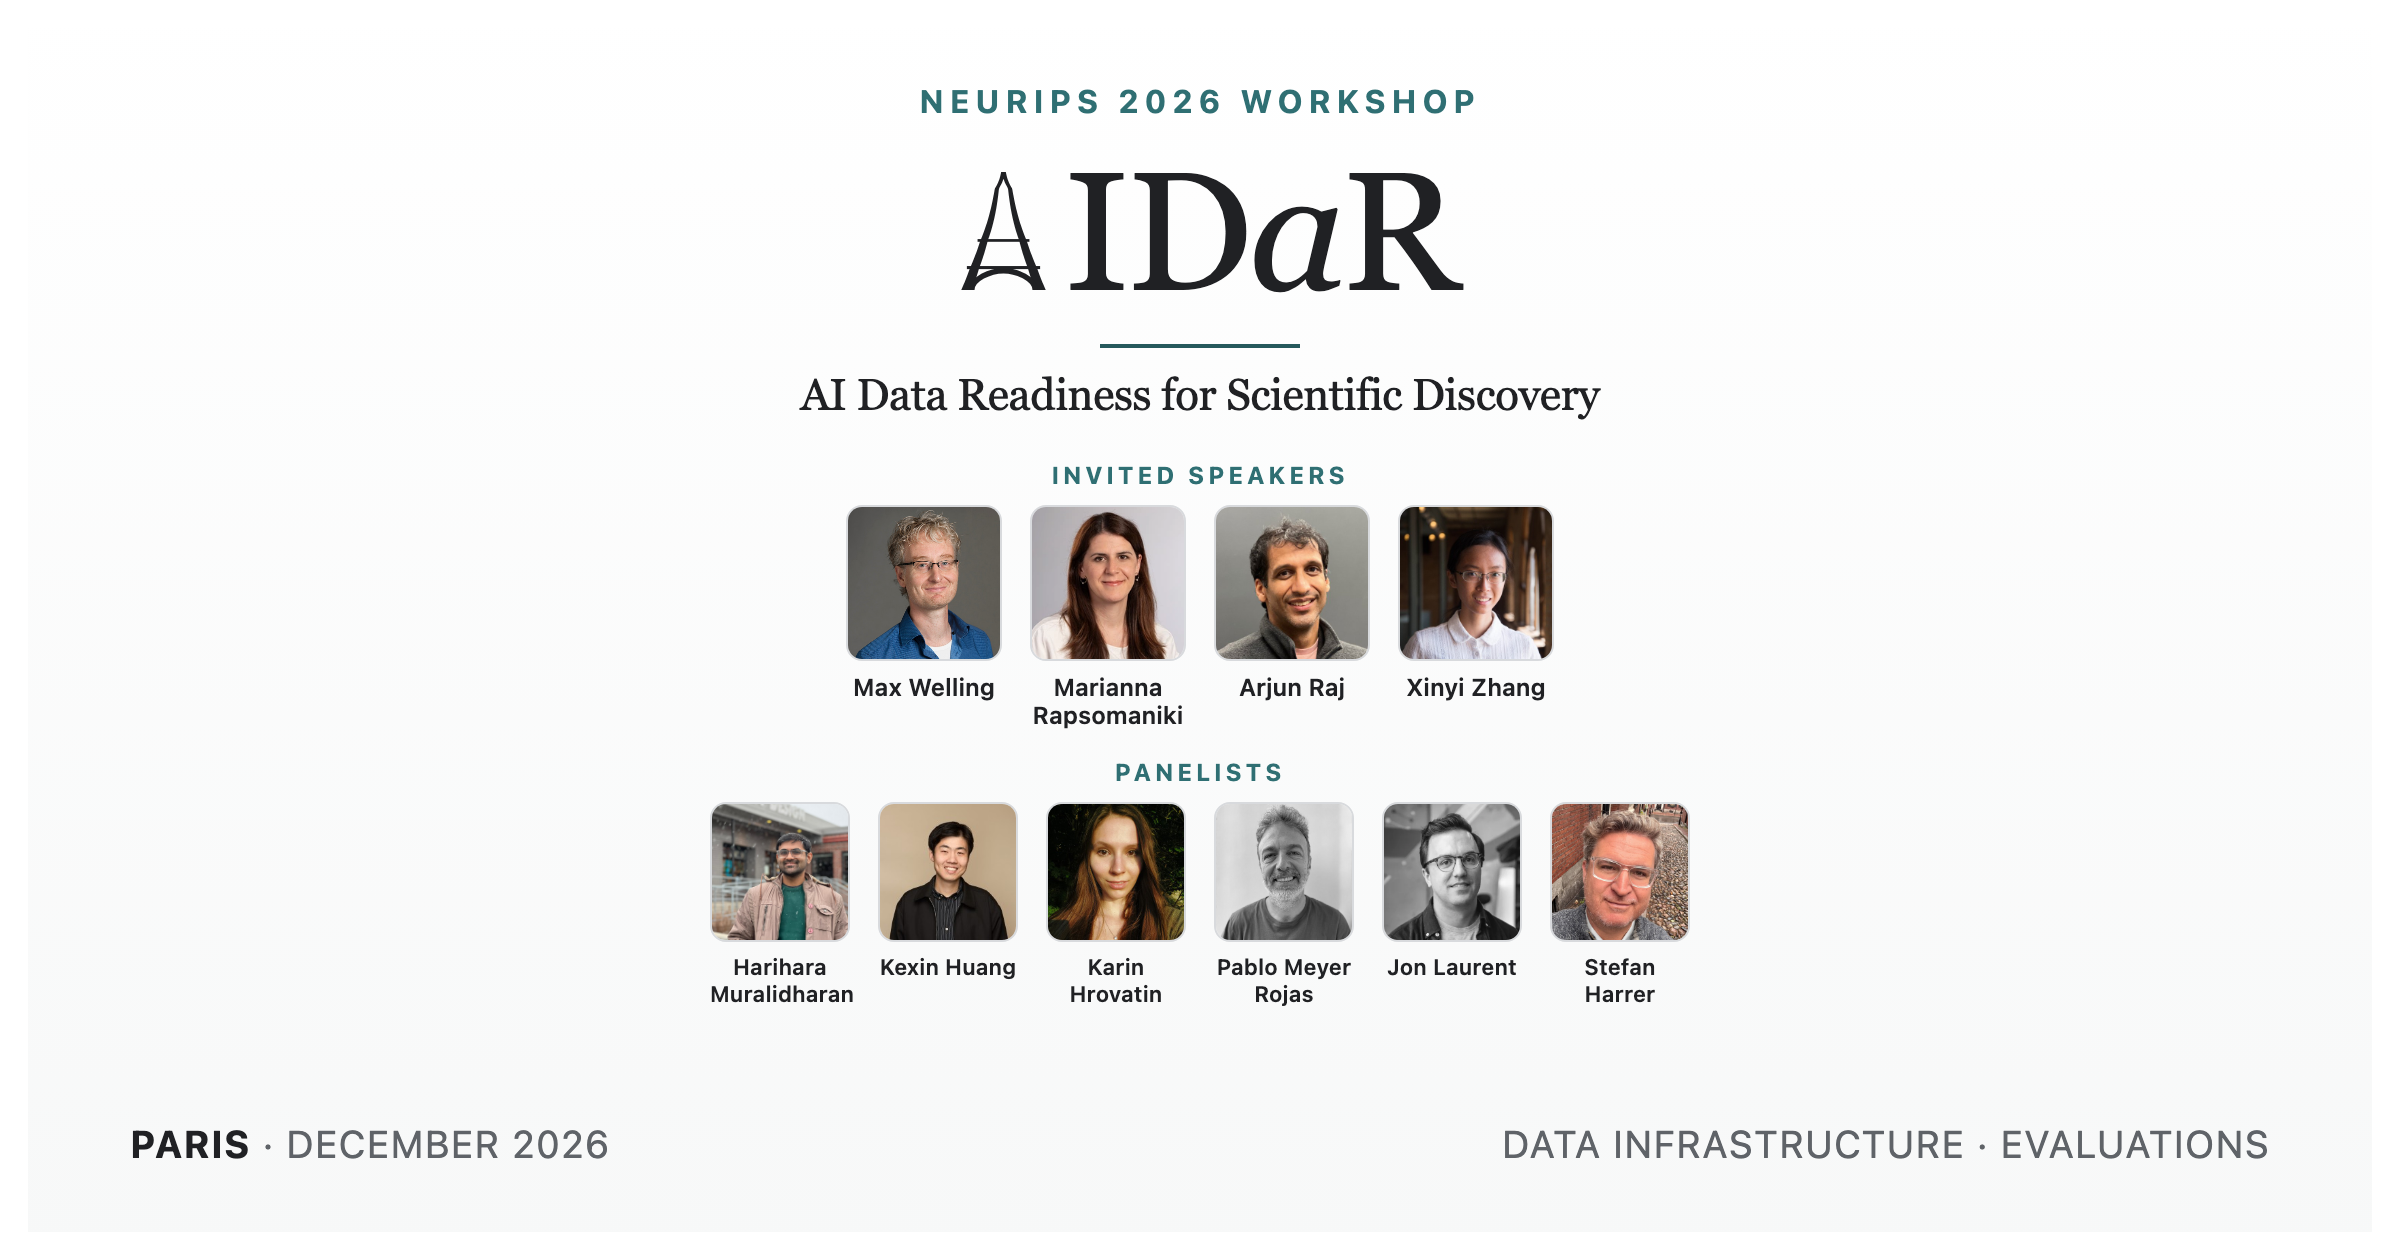
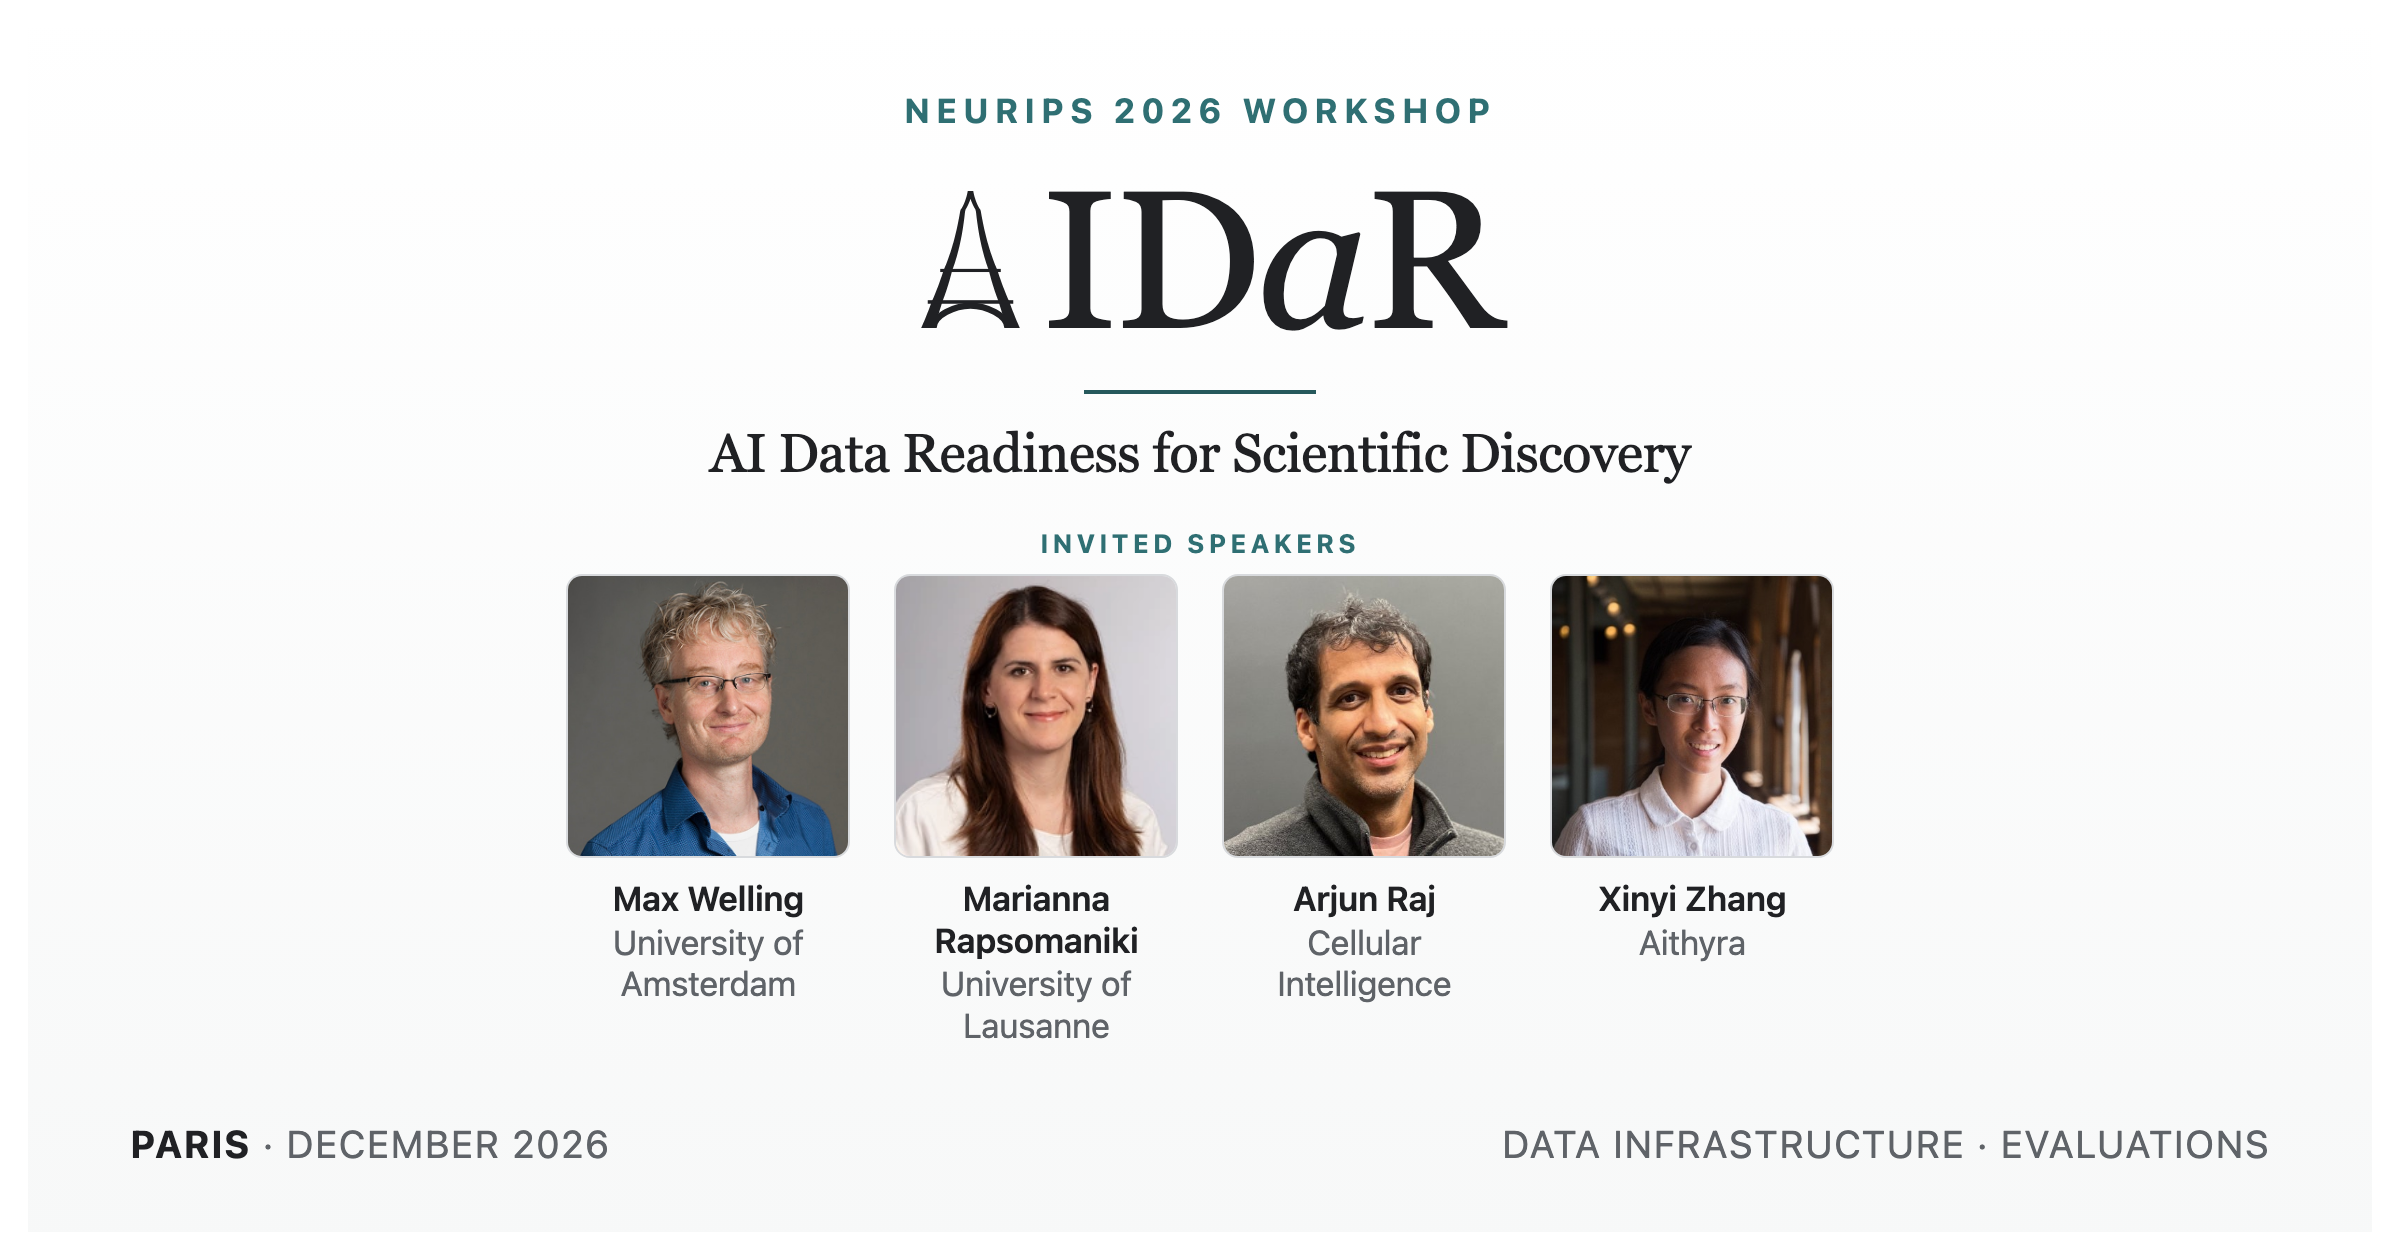
fix: the lineup card carries the invited speakers, not the panelists too
Ten portraits was the wrong read of the ask and the wrong card: at 78px
each the faces were thumbnails and the affiliations had to be dropped
entirely to stop the second row colliding with the footline.

Four speakers at 142px carry their affiliations and are recognisable at
the size the card is actually seen. Stepping the wordmark down to 98px
leaves 37px of clearance under the longest caption, so a future speaker
with a long affiliation does not push into the footline.

Changed region(s): [[0.2188, 0.3095, 0.7812, 0.8357], [0.375, 0.1238, 0.625, 0.2786], [0.375, 0.0619, 0.625, 0.0929]]

diff --git a/2026/assets/brand/og-card.html b/2026/assets/brand/og-card.html
@@ -114,16 +114,14 @@
       /* The programme only exists on the lineup variant. */
       .programme { display: none; }
 
-      /* The lineup has a fixed 630px to hold ten portraits as well as the
-         lockup, so everything above the programme is stepped down and the
-         affiliations come off — the names are what people scan for. */
-      body.lineup .plate { justify-content: flex-start; padding-top: 40px; }
-      body.lineup .kicker { margin-bottom: 14px; font-size: 16px; }
-      body.lineup .wordmark { font-size: 84px; }
-      body.lineup .rule { margin: 14px 0 11px; width: 100px; }
-      body.lineup .tagline { font-size: 22px; }
-      body.lineup .programme { display: block; width: 100%; margin-top: 20px; }
-      body.lineup .where { display: none; }
+      /* Four portraits in a fixed 630px leaves room for the affiliations, so
+         the card carries who is speaking and where they are from. */
+      body.lineup .plate { justify-content: flex-start; padding-top: 44px; }
+      body.lineup .kicker { margin-bottom: 16px; font-size: 17px; }
+      body.lineup .wordmark { font-size: 98px; }
+      body.lineup .rule { margin: 16px 0 14px; width: 116px; }
+      body.lineup .tagline { font-size: 27px; }
+      body.lineup .programme { display: block; width: 100%; margin-top: 22px; }
 
       .group + .group { margin-top: 14px; }
 
@@ -131,7 +129,7 @@
         margin: 0 0 8px;
         color: var(--accent);
         font-family: ui-sans-serif, system-ui, -apple-system, BlinkMacSystemFont, "Segoe UI", sans-serif;
-        font-size: 12px;
+        font-size: 13px;
         font-weight: 700;
         letter-spacing: 0.16em;
         text-transform: uppercase;
@@ -140,10 +138,10 @@
       .strip {
         display: flex;
         justify-content: center;
-        gap: 14px;
+        gap: 22px;
       }
 
-      .strip figure { width: 78px; margin: 0; }
+      .strip figure { width: 142px; margin: 0; }
 
       /* Matches the portraits on the site: hairline, 8px radius, square crop. */
       .strip img {
@@ -158,12 +156,12 @@
       }
 
       .strip figcaption {
-        margin-top: 6px;
+        margin-top: 10px;
         color: var(--ink);
         font-family: ui-sans-serif, system-ui, -apple-system, BlinkMacSystemFont, "Segoe UI", sans-serif;
-        font-size: 12px;
+        font-size: 17px;
         font-weight: 600;
-        line-height: 1.2;
+        line-height: 1.22;
       }
 
       .strip .where {
@@ -173,8 +171,6 @@
         font-weight: 400;
       }
 
-      .panelists figure { width: 70px; }
-      .panelists figcaption { font-size: 11px; }
     </style>
   </head>
   <body>
@@ -209,35 +205,6 @@
           </div>
         </div>
 
-        <div class="group panelists">
-          <h2>Panelists</h2>
-          <div class="strip">
-            <figure>
-              <img src="../panelists/harihara-muralidharan.jpg" alt="">
-              <figcaption>Harihara Muralidharan<span class="where">LatchBio</span></figcaption>
-            </figure>
-            <figure>
-              <img src="../panelists/kexin-huang.jpg" alt="">
-              <figcaption>Kexin Huang<span class="where">Phylo / Biomni</span></figcaption>
-            </figure>
-            <figure>
-              <img src="../panelists/karin-hrovatin.jpg" alt="">
-              <figcaption>Karin Hrovatin<span class="where">Merck KGaA</span></figcaption>
-            </figure>
-            <figure>
-              <img src="../panelists/pablo-meyer-rojas.jpg" alt="">
-              <figcaption>Pablo Meyer Rojas<span class="where">IBM Research</span></figcaption>
-            </figure>
-            <figure>
-              <img src="../panelists/jon-laurent.webp" alt="">
-              <figcaption>Jon Laurent<span class="where">Edison Scientific</span></figcaption>
-            </figure>
-            <figure>
-              <img src="../panelists/stefan-harrer.jpg" alt="">
-              <figcaption>Stefan Harrer<span class="where">Sanofi</span></figcaption>
-            </figure>
-          </div>
-        </div>
       </div>
 
       <div class="footline">

diff --git a/2026/index.html b/2026/index.html
@@ -16,10 +16,10 @@
          Two cards are built from assets/brand/og-card.html:
            aidar-og.png         the clean card, used here — it holds at the 320px
                                 Slack and mobile render as well as at 500px
-           aidar-og-lineup.png  the same card carrying the programme, for posts
-                                where it renders large; the names go illegible
-                                below about 400px, so attach it by hand rather
-                                than pointing og:image at it.
+           aidar-og-lineup.png  the same card carrying the invited speakers, for
+                                posts where it renders large; the names go
+                                illegible below about 400px, so attach it by hand
+                                rather than pointing og:image at it.
          Swap the two og:image and twitter:image URLs to change which one a
          shared link picks up. -->
     <meta property="og:type" content="website">
@@ -36,7 +36,7 @@
     <meta property="og:image:height" content="1260">
     <meta
       property="og:image:alt"
-      content="AIDaR — the Eiffel Tower transmitting a radar scan, with data points plotted as returns."
+      content="AIDaR, set with the Eiffel Tower as its A, above the line AI Data Readiness for Scientific Discovery."
     >
     <meta name="twitter:card" content="summary_large_image">
     <meta name="twitter:title" content="AIDaR: AI Data Readiness for Scientific Discovery">
